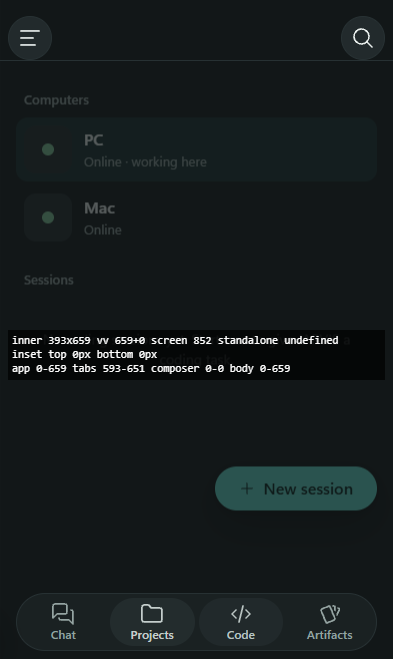
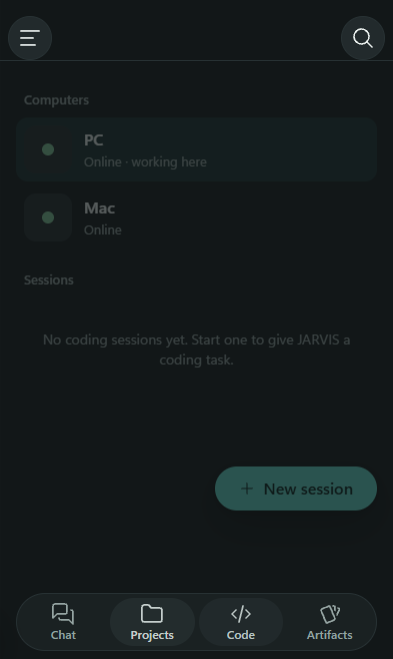
Phone: no maximum-scale, user-scalable or interactive-widget in the viewport (they made a home-screen app lay out 59 pt short on iOS 26); measurement box removed

Changed region(s): [[0.0305, 0.4856, 0.8855, 0.5766]]

diff --git a/src/mobile/main.js b/src/mobile/main.js
@@ -278,22 +278,3 @@ if (!hasToken()) {
   connect();
 }
 refreshSend();
-
-// TEMPORARY: layout measurements, shown at the top of the screen so a screenshot says why there is space at the bottom. Remove once found.
-{
-  const dbg = Object.assign(document.createElement('pre'), { id: 'm-debug' });
-  dbg.style.cssText = 'position:fixed;z-index:99;left:8px;right:8px;top:50%;margin:0;padding:4px;pointer-events:none;font:11px/1.3 monospace;color:#fff;background:rgba(0,0,0,.7);white-space:pre-wrap';
-  const probe = Object.assign(document.createElement('div'), {});
-  probe.style.cssText = 'position:fixed;visibility:hidden;padding:env(safe-area-inset-top) 0 env(safe-area-inset-bottom) 0';
-  document.body.append(dbg, probe);
-  const r = (s) => { const n = document.querySelector(s); if (!n) return 'none'; const b = n.getBoundingClientRect(); return `${Math.round(b.top)}-${Math.round(b.bottom)}`; };
-  let show = () => { const c = getComputedStyle(probe); dbg.textContent = `inner ${innerWidth}x${innerHeight} vv ${vv ? Math.round(vv.height) : '-'}+${vv ? Math.round(vv.offsetTop) : '-'} screen ${screen.height} standalone ${navigator.standalone}\ninset top ${c.paddingTop} bottom ${c.paddingBottom}\napp ${r('#m-app')} tabs ${r('.m-tabs')} composer ${r('#m-composer')} body ${r('body')}`; };
-  const tried = [];
-  const metaV = document.querySelector('meta[name=viewport]');
-  const variants = ['width=device-width, initial-scale=1, viewport-fit=cover', 'width=device-width, initial-scale=1', 'width=device-width', 'width=device-width, initial-scale=1, maximum-scale=1, user-scalable=no, viewport-fit=cover, interactive-widget=resizes-content'];
-  variants.forEach((c, i) => setTimeout(() => { metaV.content = c; setTimeout(() => tried.push(`${i + 1}: ${innerHeight}`), 500); }, 3000 + i * 1500));
-  const base = show;
-  show = () => { base(); dbg.textContent += `
-viewport variants (page height): ${tried.join('  ') || 'waiting'}`; };
-  show(); setInterval(show, 1000);
-}

diff --git a/mobile-classic.html b/mobile-classic.html
@@ -5,8 +5,8 @@
   <!-- R1-2: images and media from this page or data: and blob: only, also when the dev server (which sends no CSP) serves it -->
   <meta http-equiv="Content-Security-Policy" content="img-src 'self' data: blob:; media-src 'self' data: blob:; object-src 'none'">
   <!-- viewport-fit=cover: the app draws edge to edge and keeps clear of the notch and the home indicator itself (safe-area insets).
-       Zoom is off (a real app does not zoom); inputs are 16 pt anyway. -->
-  <meta name="viewport" content="width=device-width, initial-scale=1, maximum-scale=1, user-scalable=no, viewport-fit=cover, interactive-widget=resizes-content">
+       Zoom is stopped in main.js (gesture events), not here: maximum-scale and user-scalable make a home-screen app on iOS 26 lay out 59 pt short, with nothing drawn below that line. Inputs are 16 pt anyway. -->
+  <meta name="viewport" content="width=device-width, initial-scale=1, viewport-fit=cover">
   <meta name="color-scheme" content="light dark">
   <meta name="theme-color" content="">
   <meta name="apple-mobile-web-app-capable" content="yes">

diff --git a/mobile.html b/mobile.html
@@ -5,8 +5,8 @@
   <!-- R1-2: images and media from this page or data: and blob: only, also when the dev server (which sends no CSP) serves it -->
   <meta http-equiv="Content-Security-Policy" content="img-src 'self' data: blob:; media-src 'self' data: blob:; object-src 'none'">
   <!-- viewport-fit=cover: the app draws edge to edge and keeps clear of the notch and the home indicator itself (safe-area insets).
-       Zoom is off (a real app does not zoom); inputs are 16 pt anyway. -->
-  <meta name="viewport" content="width=device-width, initial-scale=1, maximum-scale=1, user-scalable=no, viewport-fit=cover, interactive-widget=resizes-content">
+       Zoom is stopped in main.js (gesture events), not here: maximum-scale and user-scalable make a home-screen app on iOS 26 lay out 59 pt short, with nothing drawn below that line. Inputs are 16 pt anyway. -->
+  <meta name="viewport" content="width=device-width, initial-scale=1, viewport-fit=cover">
   <meta name="color-scheme" content="light dark">
   <meta name="theme-color" content="">
   <meta name="apple-mobile-web-app-capable" content="yes">

diff --git a/tests/integration/p29-mac-open.test.js b/tests/integration/p29-mac-open.test.js
@@ -127,7 +127,7 @@ test('the phone app is a second page of the same build, with a home-screen manif
   const html = fs.readFileSync(new URL('../../mobile.html', import.meta.url), 'utf8');
   assert.match(html, /viewport-fit=cover/);
   const viewport = html.match(/<meta name="viewport" content="([^"]*)"/)[1];
-  assert.match(viewport, /maximum-scale=1/, 'a real app does not zoom');
+  assert.doesNotMatch(viewport, /maximum-scale|user-scalable/, 'those make a home-screen app lay out short on iOS 26; zoom is stopped in main.js');
   assert.match(html, /<textarea id="m-input"[^>]*autocapitalize="sentences"/);
   const manifest = JSON.parse(fs.readFileSync(new URL('../../public/manifest-mobile.webmanifest', import.meta.url), 'utf8'));
   assert.deepEqual([manifest.start_url, manifest.display, manifest.orientation], ['/mobile.html', 'standalone', 'portrait']);
